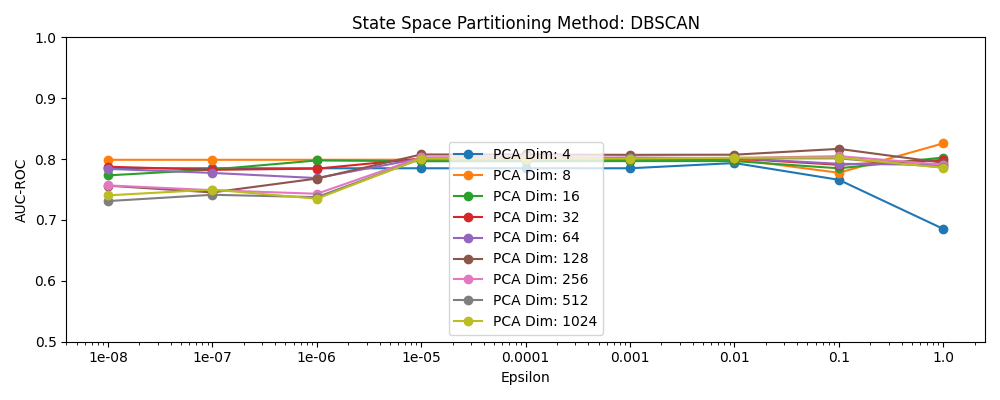
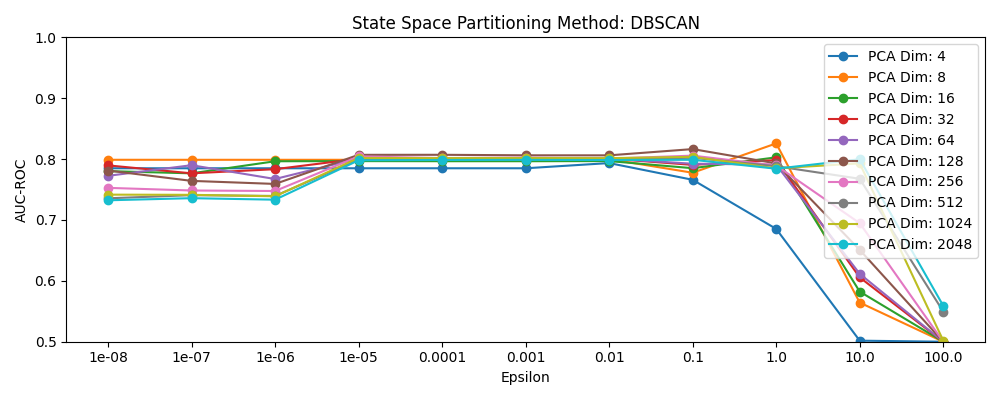
w

diff --git a/miyajiro_dbscan.py b/miyajiro_dbscan.py
@@ -26,7 +26,8 @@ def main():
     extract_block_idx = "31"
     abstraction_methods = ["DBSCAN"]
     abstract_state_nums = [200, 400, 600]
-    epsilons = [1e-8, 1e-7, 1e-6, 1e-5, 1e-4, 1e-3, 1e-2, 1e-1, 1]
+    # epsilons = [1e-8, 1e-7, 1e-6, 1e-5, 1e-4, 1e-3, 1e-2, 1e-1, 1]
+    epsilons = [1e+1, 1e+2, 1e+3]
     pca_dims = [4, 8, 16, 32, 64, 128, 256, 512, 1024, 2048]
     probability_models = ["DTMC"]
     hmm_n_comps = [100, 200, 400]
